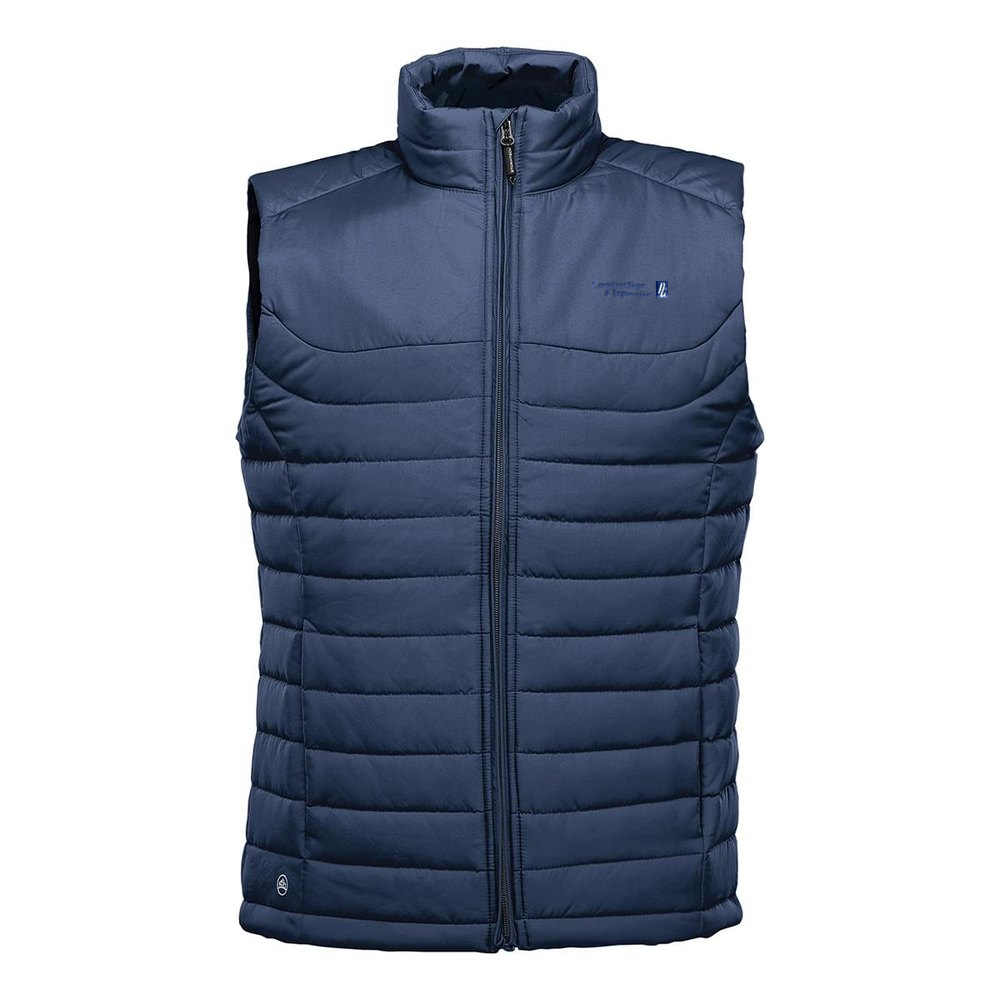
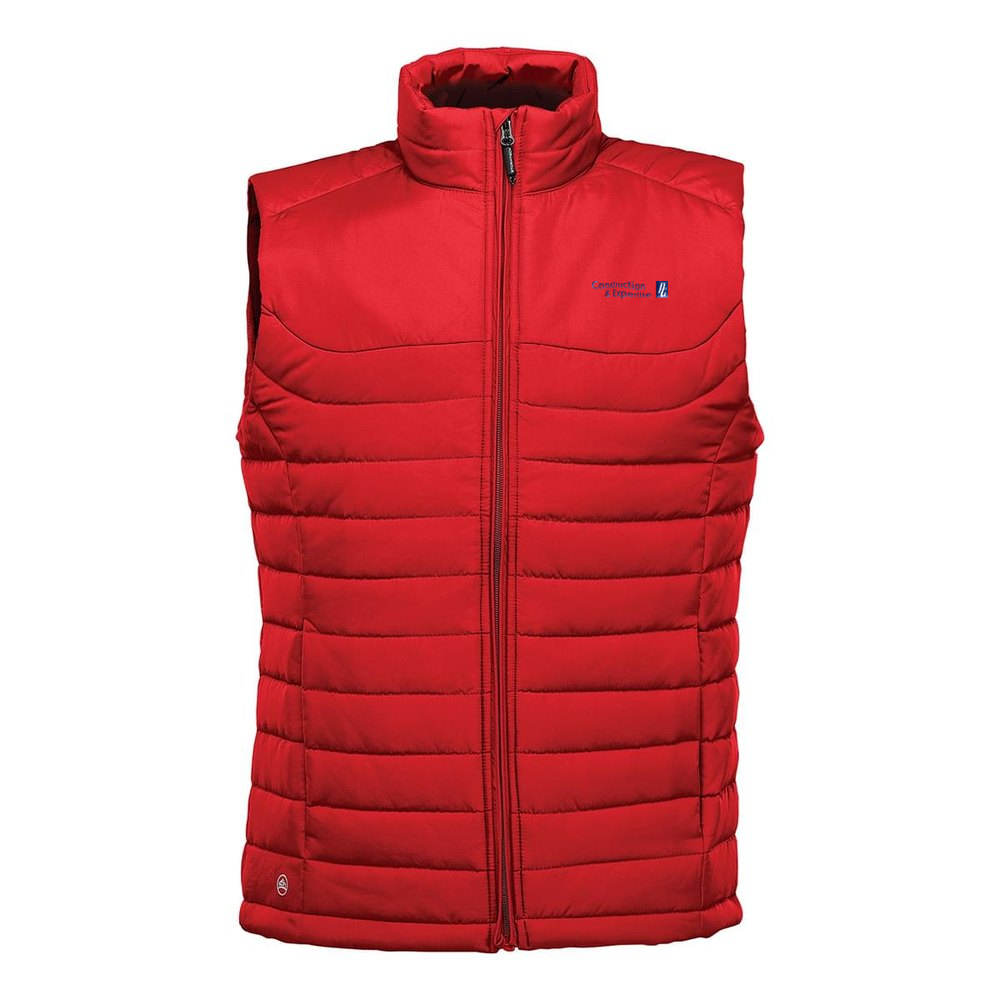
deploy pgconstruction: 5 changed, 0 purged

diff --git a/kits/pgconstruction/index.html b/kits/pgconstruction/index.html
@@ -1,1 +1,1 @@
-<!doctype html><html lang=en><head><script>document.documentElement.classList.add('js')</script><meta charset=utf-8><meta name=viewport content="width=device-width,initial-scale=1"><meta name=robots content=noindex><title>Construction &amp; Expertise PG — Branded Apparel · Just Deals Promotions</title><meta name=description content="Branded apparel program prepared for Construction &amp; Expertise PG by Just Deals Promotions."><link rel=icon type="image/png" href="img/favicon.png"><meta property="og:type" content=website><meta property="og:title" content="Construction &amp; Expertise PG — Branded Apparel · Just Deals Promotions"><meta property="og:description" content="Branded apparel program prepared for Construction &amp; Expertise PG by Just Deals Promotions."><meta property="og:image" content="https://justdealspromotions.com/kits/pgconstruction/img/hero1.png"><meta property="og:url" content="https://justdealspromotions.com/kits/pgconstruction/"><meta name="twitter:card" content="summary_large_image"><meta name="twitter:title" content="Construction &amp; Expertise PG — Branded Apparel"><meta name="twitter:description" content="Branded apparel program prepared for Construction &amp; Expertise PG by Just Deals Promotions."><meta name="twitter:image" content="https://justdealspromotions.com/kits/pgconstruction/img/hero1.png"><link rel=preconnect href=https://fonts.googleapis.com><link rel=preconnect href=https://fonts.gstatic.com crossorigin><link href="https://fonts.googleapis.com/css2?family=Inter:wght@400;500;600;700;800;900&display=swap" rel=stylesheet><link rel=stylesheet href="https://justdealspromotions.com/kits/_app/store.css?v=12"><style>:root{--a:#1D3774}</style></head><body><div id=app><div class=spin></div></div><script id=jdpcfg type="application/json">{"ver":"1783684527","client":"Construction &amp; Expertise PG","accent":"#1D3774","scope":"all","catalog_base":"https://justdealspromotions.com/kits/_catalog","cover_logo":"img/logo-white.png","favicon":"img/favicon.png","heroes":["img/hero1.png","img/hero2.png","img/hero3.png"],"logos":[{"id":"full","label":"Full logo","ar":4.2042,"inks":{"brand":"img/lg_full_brand.png","white":"img/lg_full_white.png","dark":"img/lg_full_dark.png","#1d3774":"img/lg_full_1d3774.png"}},{"id":"icon","label":"Icon","ar":7.0352,"inks":{"brand":"img/lg_icon_brand.png","white":"img/lg_icon_white.png","dark":"img/lg_icon_dark.png","#1d3774":"img/lg_icon_1d3774.png"}},{"id":"word","label":"Wordmark","ar":7.9133,"inks":{"brand":"img/lg_word_brand.png","white":"img/lg_word_white.png","dark":"img/lg_word_dark.png","#1d3774":"img/lg_word_1d3774.png"}}],"feature":"vault","order":{"office":["vest","softshell","polo","vault","shirt","crewtee"],"field":["tee","tvest","hoodie","surveyor","freezer","rain"]},"items":{"vest":{"colour":"Navy","decos":[{"pl":"chest","lg":"full","ink":"auto","method":"embroidery","on":true},{"pl":"back","lg":"full","ink":"auto","method":"embroidery","on":false}]},"softshell":{"colour":"Navy","decos":[{"pl":"chest","lg":"full","ink":"auto","method":"embroidery","on":true},{"pl":"sleeve","lg":"full","ink":"auto","method":"embroidery","on":false},{"pl":"back","lg":"full","ink":"auto","method":"embroidery","on":false}]},"polo":{"colour":"Royal","decos":[{"pl":"chest","lg":"full","ink":"auto","method":"embroidery","on":true},{"pl":"sleeve","lg":"full","ink":"auto","method":"embroidery","on":false},{"pl":"back","lg":"full","ink":"auto","method":"embroidery","on":false}]},"vault":{"colour":"Purple","decos":[{"pl":"chest","lg":"full","ink":"auto","method":"embroidery","on":true},{"pl":"sleeve","lg":"full","ink":"auto","method":"embroidery","on":false},{"pl":"back","lg":"full","ink":"auto","method":"embroidery","on":false}]},"shirt":{"colour":"Navy","decos":[{"pl":"chest","lg":"full","ink":"auto","method":"embroidery","on":true},{"pl":"sleeve","lg":"full","ink":"auto","method":"embroidery","on":false},{"pl":"back","lg":"full","ink":"auto","method":"embroidery","on":false}]},"crewtee":{"colour":"Royal","decos":[{"pl":"chest","lg":"full","ink":"auto","method":"embroidery","on":true},{"pl":"sleeve","lg":"full","ink":"auto","method":"embroidery","on":false},{"pl":"back","lg":"full","ink":"auto","method":"embroidery","on":false}]},"tee":{"colour":"Hi-Vis Orange","decos":[{"pl":"front","lg":"full","ink":"white","method":"screen","on":true},{"pl":"back","lg":"full","ink":"white","method":"screen","on":true}]},"tvest":{"colour":"Hi-Vis Orange","decos":[{"pl":"front","lg":"full","ink":"auto","method":"embroidery","on":true},{"pl":"back","lg":"full","ink":"white","method":"screen","on":true}]},"hoodie":{"colour":"Hi-Vis Orange","decos":[{"pl":"front","lg":"full","ink":"auto","method":"embroidery","on":true},{"pl":"back","lg":"full","ink":"white","method":"screen","on":true}]},"surveyor":{"colour":"Hi-Vis Orange","decos":[{"pl":"back","lg":"full","ink":"white","method":"screen","on":true}]},"freezer":{"colour":"Hi-Vis Orange","decos":[{"pl":"front","lg":"full","ink":"auto","method":"embroidery","on":true},{"pl":"back","lg":"full","ink":"white","method":"screen","on":true}]},"rain":{"colour":"Hi-Vis Orange","decos":[{"pl":"front","lg":"full","ink":"auto","method":"heat_transfer","on":true},{"pl":"back","lg":"full","ink":"auto","method":"heat_transfer","on":true}]}},"rates":{"screen":0.75,"screen2":1.0,"screenc":{"1":0.75,"2":1.0,"3":1.25},"emb":4.2,"ht":3.0,"setup":{"screen":45.0,"embroidery":60.0,"heat_transfer":75.0},"emb_mult":{"back":2.5},"screen_min":24,"margin":[[1,2.0],[24,1.89],[48,1.75],[100,1.67],[250,1.59]],"cols":[12,48,144],"blank":{"vest":35.06,"softshell":29.6,"polo":11.24,"vault":14.46,"shirt":15.96,"crewtee":3.6,"tee":11.45,"tvest":8.95,"hoodie":24.5,"surveyor":20.0,"freezer":27.0,"rain":39.95}},"copy":{"hero_h1":"Your logo, on gear your crew will actually <b>wear</b>.","cover_p":"Office wear + CSA hi-vis field gear \u2014 your logo, ready to wear.","hero_h2":"Pick your colours. See your logo. <b>Reply to order.</b>","chips":[["Look the part","A branded crew reads as a serious operator."],["Worn on & off the clock","Quality kit your crew actually wears."],["A billboard on every site","Your name, in front of clients all day."]],"work_lead":"Recent work from our shop floor.","close_h2":"Let's get your crew kitted out.","crosssell":"Toques &amp; caps \u00b7 jackets \u00b7 rainwear \u00b7 gloves \u00b7 safety footwear \u00b7 bags \u00b7 drinkware \u00b7 signage \u2014 if your crew needs it, we brand it.","cta_mid_html":"<div style=\"background:#1D3774;border-radius:16px;padding:24px 30px;max-width:660px;margin:22px auto 20px\"><p style=\"color:#fff;font-size:18px;font-weight:700;margin:0;line-height:1.45\">Reply to this email with the <u>items, colours &amp; rough quantities</u> you want \u2014 we'll send your quote.</p></div>","field_kit_label":"Job-site &amp; hi-vis","feed":"kw9h4cUWOzeEVuIfrSxU"},"pricing":{"cols":[12,48,144],"currency":"CAD","setup_line":"Screen print $45.00/colour per location \u00b7 Embroidery $60.00 \u00b7 Heat-transfer $75.00","office":[{"name":"Quilted Vest","sku":"Stormtech","method":"Embroidered, left chest","prices":[78.52,68.71,65.56],"cols":[12,48,144]},{"name":"Softshell","sku":"Canada Sportswear","method":"Embroidered, left chest","prices":[67.6,59.15,56.45],"cols":[12,48,144]},{"name":"Polo","sku":"SS Activewear","method":"Embroidered, left chest","prices":[30.88,27.02,25.78],"cols":[12,48,144]},{"name":"Pullover Hoodie","sku":"Canada Sportswear","method":"Embroidered, left chest","prices":[37.32,32.66,31.16],"cols":[12,48,144]},{"name":"Dress Shirt","sku":"Canada Sportswear","method":"Embroidered, left chest","prices":[40.32,35.28,33.67],"cols":[12,48,144]},{"name":"Cotton Tee","sku":"Canada Sportswear","method":"Embroidered, left chest","prices":[15.6,13.65,13.03],"cols":[12,48,144]}],"field":[{"name":"Cotton Traffic T-Shirt","sku":"Ground Force","method":"1-colour screen","prices":[25.9,22.66,21.63],"cols":[12,48,144]},{"name":"5-Point Tear-Away Vest","sku":"Ground Force","method":"embroidery + full-colour screen","prices":[28.3,24.76,23.63],"cols":[12,48,144]},{"name":"Hi-Vis Traffic Hoodie","sku":"Ground Force","method":"embroidery + 1-colour screen","prices":[58.9,51.54,49.18],"cols":[12,48,144]},{"name":"Deluxe Surveyor Vest","sku":"Ground Force","method":"full-colour screen","prices":[42.0,36.75,35.07],"cols":[12,48,144]},{"name":"Quilted Traffic Freezer Jacket","sku":"Ground Force","method":"embroidery + 1-colour screen","prices":[63.9,55.91,53.36],"cols":[12,48,144]},{"name":"Hi-Vis Rain Jacket","sku":"Ground Force","method":"heat-transfer","prices":[87.9,76.91,73.4],"cols":[12,48,144]}]}}</script><script src="https://justdealspromotions.com/kits/_app/store.js?v=12"></script></body></html>
+<!doctype html><html lang=en><head><script>document.documentElement.classList.add('js')</script><meta charset=utf-8><meta name=viewport content="width=device-width,initial-scale=1"><meta name=robots content=noindex><title>Construction &amp; Expertise PG — Branded Apparel · Just Deals Promotions</title><meta name=description content="Branded apparel program prepared for Construction &amp; Expertise PG by Just Deals Promotions."><link rel=icon type="image/png" href="img/favicon.png"><meta property="og:type" content=website><meta property="og:title" content="Construction &amp; Expertise PG — Branded Apparel · Just Deals Promotions"><meta property="og:description" content="Branded apparel program prepared for Construction &amp; Expertise PG by Just Deals Promotions."><meta property="og:image" content="https://justdealspromotions.com/kits/pgconstruction/img/hero1.png"><meta property="og:url" content="https://justdealspromotions.com/kits/pgconstruction/"><meta name="twitter:card" content="summary_large_image"><meta name="twitter:title" content="Construction &amp; Expertise PG — Branded Apparel"><meta name="twitter:description" content="Branded apparel program prepared for Construction &amp; Expertise PG by Just Deals Promotions."><meta name="twitter:image" content="https://justdealspromotions.com/kits/pgconstruction/img/hero1.png"><link rel=preconnect href=https://fonts.googleapis.com><link rel=preconnect href=https://fonts.gstatic.com crossorigin><link href="https://fonts.googleapis.com/css2?family=Inter:wght@400;500;600;700;800;900&display=swap" rel=stylesheet><link rel=stylesheet href="https://justdealspromotions.com/kits/_app/store.css?v=13"><style>:root{--a:#1D3774}</style></head><body><div id=app><div class=spin></div></div><script id=jdpcfg type="application/json">{"ver":"1783695199","client":"Construction &amp; Expertise PG","accent":"#1D3774","scope":"all","catalog_base":"https://justdealspromotions.com/kits/_catalog","cover_logo":"img/logo-white.png","favicon":"img/favicon.png","heroes":["img/hero1.png","img/hero2.png","img/hero3.png"],"logos":[{"id":"full","label":"Full logo","ar":4.2042,"inks":{"brand":"img/lg_full_brand.png","white":"img/lg_full_white.png","dark":"img/lg_full_dark.png","#1d3774":"img/lg_full_1d3774.png"}},{"id":"icon","label":"Icon","ar":7.0352,"inks":{"brand":"img/lg_icon_brand.png","white":"img/lg_icon_white.png","dark":"img/lg_icon_dark.png","#1d3774":"img/lg_icon_1d3774.png"}},{"id":"word","label":"Wordmark","ar":7.9133,"inks":{"brand":"img/lg_word_brand.png","white":"img/lg_word_white.png","dark":"img/lg_word_dark.png","#1d3774":"img/lg_word_1d3774.png"}}],"feature":"vault","order":{"office":["vest","softshell","polo","vault","shirt","crewtee"],"field":["tee","tvest","hoodie","surveyor","freezer","rain"]},"items":{"vest":{"colour":"Bright Red","decos":[{"pl":"chest","lg":"full","ink":"auto","method":"embroidery","on":true},{"pl":"back","lg":"full","ink":"auto","method":"embroidery","on":false}]},"softshell":{"colour":"Red","decos":[{"pl":"chest","lg":"full","ink":"auto","method":"embroidery","on":true},{"pl":"sleeve","lg":"full","ink":"auto","method":"embroidery","on":false},{"pl":"back","lg":"full","ink":"auto","method":"embroidery","on":false}]},"polo":{"colour":"White","decos":[{"pl":"chest","lg":"full","ink":"auto","method":"embroidery","on":true},{"pl":"sleeve","lg":"full","ink":"auto","method":"embroidery","on":false},{"pl":"back","lg":"full","ink":"auto","method":"embroidery","on":false}]},"vault":{"colour":"White","decos":[{"pl":"chest","lg":"full","ink":"auto","method":"embroidery","on":true},{"pl":"sleeve","lg":"full","ink":"auto","method":"embroidery","on":false},{"pl":"back","lg":"full","ink":"auto","method":"embroidery","on":false}]},"shirt":{"colour":"White","decos":[{"pl":"chest","lg":"full","ink":"auto","method":"embroidery","on":true},{"pl":"sleeve","lg":"full","ink":"auto","method":"embroidery","on":false},{"pl":"back","lg":"full","ink":"auto","method":"embroidery","on":false}]},"crewtee":{"colour":"Ivory","decos":[{"pl":"chest","lg":"full","ink":"auto","method":"embroidery","on":true},{"pl":"sleeve","lg":"full","ink":"auto","method":"embroidery","on":false},{"pl":"back","lg":"full","ink":"auto","method":"embroidery","on":false}]},"tee":{"colour":"Hi-Vis Orange","decos":[{"pl":"front","lg":"full","ink":"white","method":"screen","on":true},{"pl":"back","lg":"full","ink":"white","method":"screen","on":true}]},"tvest":{"colour":"Hi-Vis Orange","decos":[{"pl":"front","lg":"full","ink":"auto","method":"embroidery","on":true},{"pl":"back","lg":"full","ink":"white","method":"screen","on":true}]},"hoodie":{"colour":"Hi-Vis Orange","decos":[{"pl":"front","lg":"full","ink":"auto","method":"embroidery","on":true},{"pl":"back","lg":"full","ink":"white","method":"screen","on":true}]},"surveyor":{"colour":"Hi-Vis Orange","decos":[{"pl":"back","lg":"full","ink":"white","method":"screen","on":true}]},"freezer":{"colour":"Hi-Vis Orange","decos":[{"pl":"front","lg":"full","ink":"auto","method":"embroidery","on":true},{"pl":"back","lg":"full","ink":"white","method":"screen","on":true}]},"rain":{"colour":"Hi-Vis Orange","decos":[{"pl":"front","lg":"full","ink":"auto","method":"heat_transfer","on":true},{"pl":"back","lg":"full","ink":"auto","method":"heat_transfer","on":true}]}},"rates":{"screen":0.75,"screen2":1.0,"screenc":{"1":0.75,"2":1.0,"3":1.25},"emb":4.2,"ht":3.0,"setup":{"screen":45.0,"embroidery":60.0,"heat_transfer":75.0},"emb_mult":{"back":2.5},"screen_min":24,"margin":[[1,2.0],[24,1.89],[48,1.75],[100,1.67],[250,1.59]],"cols":[12,48,144],"blank":{"vest":35.06,"softshell":29.6,"polo":11.24,"vault":14.46,"shirt":15.96,"crewtee":3.6,"tee":11.45,"tvest":8.95,"hoodie":24.5,"surveyor":20.0,"freezer":27.0,"rain":39.95}},"copy":{"hero_h1":"Your logo, on gear your crew will actually <b>wear</b>.","cover_p":"Office wear + CSA hi-vis field gear \u2014 your logo, ready to wear.","hero_h2":"Pick your colours. See your logo. <b>Reply to order.</b>","chips":[["Look the part","A branded crew reads as a serious operator."],["Worn on & off the clock","Quality kit your crew actually wears."],["A billboard on every site","Your name, in front of clients all day."]],"work_lead":"Recent work from our shop floor.","close_h2":"Let's get your crew kitted out.","crosssell":"Toques &amp; caps \u00b7 jackets \u00b7 rainwear \u00b7 gloves \u00b7 safety footwear \u00b7 bags \u00b7 drinkware \u00b7 signage \u2014 if your crew needs it, we brand it.","cta_mid_html":"<div style=\"background:#1D3774;border-radius:16px;padding:24px 30px;max-width:660px;margin:22px auto 20px\"><p style=\"color:#fff;font-size:18px;font-weight:700;margin:0;line-height:1.45\">Reply to this email with the <u>items, colours &amp; rough quantities</u> you want \u2014 we'll send your quote.</p></div>","field_kit_label":"Job-site &amp; hi-vis","feed":"kw9h4cUWOzeEVuIfrSxU"},"pricing":{"cols":[12,48,144],"currency":"CAD","setup_line":"Screen print $45.00/colour per location \u00b7 Embroidery $60.00 \u00b7 Heat-transfer $75.00","office":[{"name":"Quilted Vest","sku":"Stormtech","method":"Embroidered, left chest","prices":[78.52,68.71,65.56],"cols":[12,48,144]},{"name":"Softshell","sku":"Canada Sportswear","method":"Embroidered, left chest","prices":[67.6,59.15,56.45],"cols":[12,48,144]},{"name":"Polo","sku":"SS Activewear","method":"Embroidered, left chest","prices":[30.88,27.02,25.78],"cols":[12,48,144]},{"name":"Pullover Hoodie","sku":"Canada Sportswear","method":"Embroidered, left chest","prices":[37.32,32.66,31.16],"cols":[12,48,144]},{"name":"Dress Shirt","sku":"Canada Sportswear","method":"Embroidered, left chest","prices":[40.32,35.28,33.67],"cols":[12,48,144]},{"name":"Cotton Tee","sku":"Canada Sportswear","method":"Embroidered, left chest","prices":[15.6,13.65,13.03],"cols":[12,48,144]}],"field":[{"name":"Cotton Traffic T-Shirt","sku":"Ground Force","method":"1-colour screen","prices":[25.9,22.66,21.63],"cols":[12,48,144]},{"name":"5-Point Tear-Away Vest","sku":"Ground Force","method":"embroidery + full-colour screen","prices":[28.3,24.76,23.63],"cols":[12,48,144]},{"name":"Hi-Vis Traffic Hoodie","sku":"Ground Force","method":"embroidery + 1-colour screen","prices":[58.9,51.54,49.18],"cols":[12,48,144]},{"name":"Deluxe Surveyor Vest","sku":"Ground Force","method":"full-colour screen","prices":[42.0,36.75,35.07],"cols":[12,48,144]},{"name":"Quilted Traffic Freezer Jacket","sku":"Ground Force","method":"embroidery + 1-colour screen","prices":[63.9,55.91,53.36],"cols":[12,48,144]},{"name":"Hi-Vis Rain Jacket","sku":"Ground Force","method":"heat-transfer","prices":[87.9,76.91,73.4],"cols":[12,48,144]}]}}</script><script src="https://justdealspromotions.com/kits/_app/store.js?v=13"></script></body></html>
